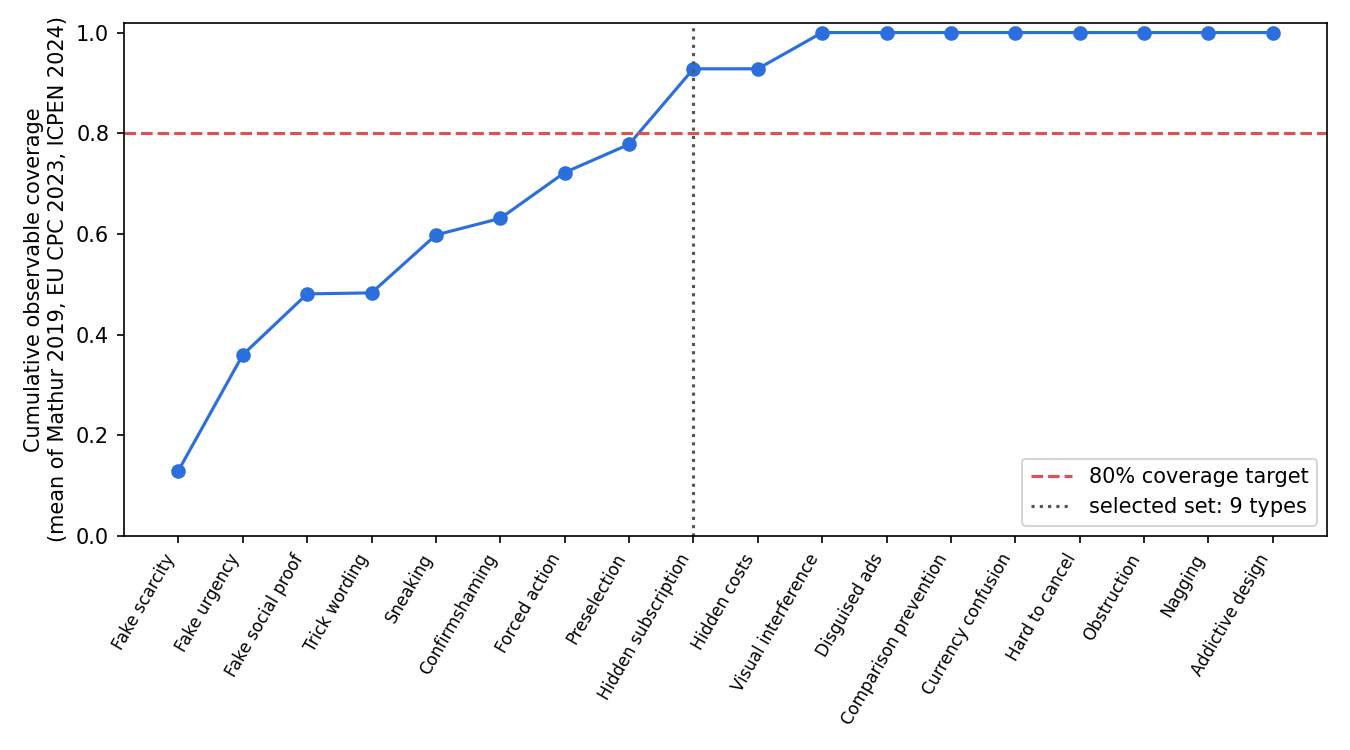
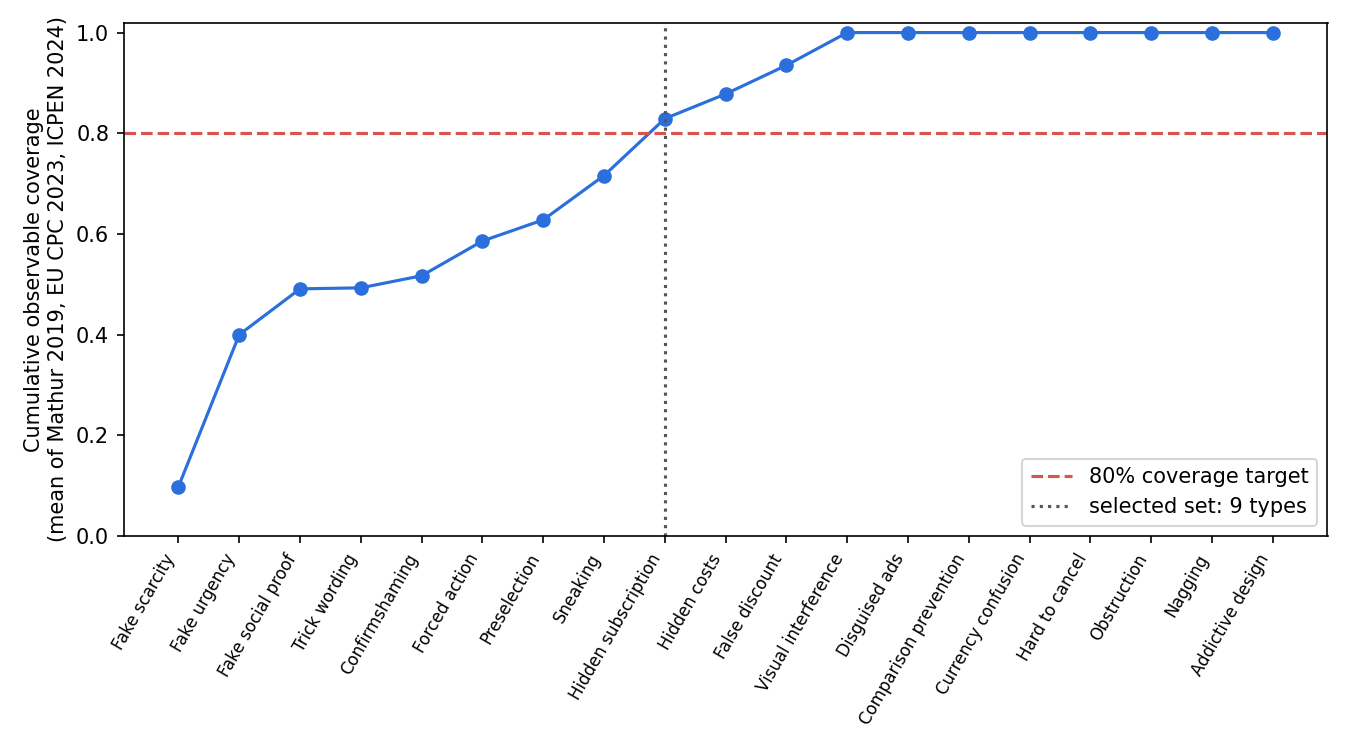
Taxonomy: add False discount and the team's user study as evidence
- Add False discount (inflated reference price / fake M.R.P.) as a 19th
  candidate: FTC "False Discount Claims", and the highest Pattern
  Vulnerability Index (25.0) in Kulkarni et al.
- Add Kulkarni et al. (351 detections on Indian sites, 40-participant
  study) as a fourth prevalence source.
- Document older names: roach motel = Hard to cancel, forced
  continuity = Hidden subscription, add-on creep = Sneaking.

Result: 10 core types (False discount joins at 50% of simulations);
the robust core (scarcity, urgency, social proof) is unchanged.

diff --git a/research/taxonomy/README.md b/research/taxonomy/README.md
@@ -1,6 +1,6 @@
 # Which dark patterns should the detector target?
 
-This folder holds an evidence-based, reproducible answer. It ranks the 18 dark-pattern types from deceptive.design using published prevalence data, regulatory recognition, and whether a single-page scanner can observe each one. A sensitivity analysis checks that the result doesn't depend on arbitrary choices.
+This folder holds an evidence-based, reproducible answer. It ranks 19 dark-pattern types (the 18 from deceptive.design plus False discount) using published prevalence data, regulatory recognition, and whether a single-page scanner can observe each one. A sensitivity analysis checks that the result doesn't depend on arbitrary choices.
 
 Run it with `python score_taxonomy.py`. You need Python 3 with matplotlib. It writes `results/` and `figures/`.
 
@@ -8,12 +8,12 @@ Run it with `python score_taxonomy.py`. You need Python 3 with matplotlib. It wr
 
 | Tier | Types | Why |
 |---|---|---|
-| **Core (robust)** | Fake scarcity, Fake urgency, Fake social proof | Selected in at least 99% of 10,000 simulations |
-| **Core (weight-sensitive)** | Confirmshaming, Trick wording, Sneaking, Preselection, Hidden subscription, Forced action | Selected in the baseline and in 61–81% of simulations |
-| **Extended** | Hidden costs, Visual interference, Disguised ads, Comparison prevention, Currency confusion | Selected in 0–24% of simulations; detected on a best-effort basis |
-| **Out of scope** | Hard to cancel, Obstruction, Nagging, Addictive design | They need a multi-step flow or observation over time, which a single-page scanner can't see |
+| **Core (robust)** | Fake scarcity, Fake urgency, Fake social proof | Selected in at least 99.6% of 10,000 simulations |
+| **Core (weight-sensitive)** | Confirmshaming, Trick wording, Preselection, Hidden subscription, Forced action, Sneaking, False discount | Selected in 50–86% of simulations |
+| **Extended** | Hidden costs (45%, borderline), Visual interference, Disguised ads, Comparison prevention, Currency confusion | Selected in 0–45% of simulations; detected on a best-effort basis |
+| **Out of scope** | Hard to cancel (roach motel), Obstruction, Nagging, Addictive design | They need a multi-step flow or observation over time, which a single-page scanner can't see |
 
-Together, the 9 core types cover **93%** of the observable instances, averaged across the three prevalence sources. Across the simulations the selected set had 4–12 types (median 8), so 9 is a typical, not a lucky, outcome. For the full table see `results/ranking.csv`.
+The baseline selects 9 types, which cover **83%** of the observable instances averaged across the four prevalence sources. False discount joins the core tier because it's selected in 50% of simulations. Across the simulations the selected set had 5–12 types (median 9), so 9–10 core types is a typical, not a lucky, outcome. For the full table see `results/ranking.csv`.
 
 ![Priority ranking](figures/priority_ranking.png)
 ![Coverage curve](figures/coverage_curve.png)
@@ -22,17 +22,18 @@ Together, the 9 core types cover **93%** of the observable instances, averaged a
 ## Method
 
 ### 1. Candidate types
-The candidates are the 18 types on [deceptive.design/types](https://deceptive.design/types/), which is maintained by Harry Brignull and mapped to laws and enforcement actions. All other sources are mapped onto these names (see the `mapping_note` and `note` columns in `data/`).
+The candidates are the 18 types on [deceptive.design/types](https://deceptive.design/types/), which is maintained by Harry Brignull and mapped to laws and enforcement actions, plus **False discount** (inflated reference prices, such as a fake M.R.P.). False discount isn't a deceptive.design type, but the FTC lists it as "False Discount Claims", and it had the highest Pattern Vulnerability Index (25.0, with 71.4% of users unaware) in Kulkarni et al. All other sources are mapped onto these names (see the `mapping_note` and `note` columns in `data/`). Older names map like this: *roach motel* is Hard to cancel, *forced continuity* is Hidden subscription, *sneak into basket* and *add-on creep* are Sneaking, and *drip pricing* is Hidden costs.
 
 ### 2. Criteria
 
-**Prevalence (P).** This is how often each type is observed in the real world. There are three independent sources, from different years, regions and methods:
+**Prevalence (P).** This is how often each type is observed in the real world. There are four independent sources, from different years, regions and methods:
 
 | Source | What it measured | Sample |
 |---|---|---|
 | Mathur et al. 2019, *Dark Patterns at Scale* (CSCW) | Instances found by crawling shopping sites | 1,818 instances from ~11K sites ([dataset](https://github.com/aruneshmathur/dark-patterns), commit `f458f19`, counted from the raw CSV) |
 | EU CPC Network sweep, 2023 | Retail websites using each pattern | 399 online shops ([press release IP/23/418](https://ec.europa.eu/commission/presscorner/detail/en/ip_23_418)) |
 | ICPEN sweep, 2024 | Subscription traders using each pattern | 642 websites and apps ([public report](https://icpen.org/sites/default/files/2024-07/Public%20Report%20ICPEN%20Dark%20Patterns%20Sweep.pdf)) |
+| Kulkarni et al., *Unmasking Dark Patterns* (ICTIS 2026) | Detections in a 40-participant user study on Indian sites (Flipkart, Myntra, Amazon.in and others) | 351 detections; only the categories the paper reports with counts are used |
 
 The sources use different scales, so each one is normalised to 0–1 separately. The scores are then averaged over the sources that report the type. A type no source reports gets P = 0.
 
@@ -65,7 +66,7 @@ Score = D × (w_P · P + w_R · R)        baseline w_P = w_R = 0.5
 D multiplies rather than adds: a type the scanner can't observe isn't a target, however common or regulated it is.
 
 ### 4. Choosing how many types (the cut-off)
-Types are added in score order until they cover **at least 80% of observable instances**, averaged across the three sources. Each instance is weighted by its type's detectability, so unobservable patterns don't drive the cut-off. Averaging across sources keeps the set from overfitting to shopping sites: Mathur alone would select only scarcity, urgency and social proof.
+Types are added in score order until they cover **at least 80% of observable instances**, averaged across the four sources. Each instance is weighted by its type's detectability, so unobservable patterns don't drive the cut-off. Averaging across sources keeps the set from overfitting to shopping sites: Mathur alone would select only scarcity, urgency and social proof.
 
 ### 5. Sensitivity analysis
 There are 10,000 Monte Carlo runs (seed 42). Each run randomly varies:
@@ -79,12 +80,13 @@ A type is **robust** if it's selected in at least 90% of runs.
 ## Findings worth noting
 - **The detector can find the presence of urgency, scarcity and social proof, but not whether they are fake.** In Mathur's data, only 157 of 393 countdown timers and 17 of 632 low-stock messages were *verifiably* false. The extension should say "pressure tactic detected", not "this is fake", unless it has proof (for example, a timer that resets).
 - **Visual interference is highly prevalent but scores low only because of detectability (0.25).** It's the second most common type in both regulatory sweeps. If the extension starts reading computed styles (contrast, size, prominence), its D rises and it would join the core set. This is the most valuable detection upgrade.
-- **Hard to cancel is the most regulated type that's out of scope** (46 laws, 23 enforcements). A future multi-step "cancellation flow" mode would address it.
+- **Hard to cancel (roach motel) is the most regulated type that's out of scope** (46 laws, 23 enforcements). The extension still recognises it when cancellation obstacles are visible on the scanned page, but detection isn't claimed to be reliable. A future multi-step "cancellation flow" mode would address it.
+- **False discount's regulation score (0.11) is understated.** deceptive.design doesn't track it as a type, so it gets 0 laws there, although EU price-indication rules on prior-price claims regulate it directly. A better source of law counts for it would raise its score.
 
 ## Limitations
 - The sources have different denominators: instances (Mathur), sites (EU) and traders within sub-populations (ICPEN). That's why each source is normalised separately rather than pooled.
-- The ICPEN sweep covers subscription services only, and the EU sweep checked only three categories. Absence from a source is treated as "not measured", not "not prevalent".
+- The ICPEN sweep covers subscription services only, the EU sweep checked only three categories, and Kulkarni et al. used a convenience sample of students and LLM-assigned labels. Absence from a source is treated as "not measured", not "not prevalent".
 - The EU Commission's 2022 behavioural study (97% of popular sites and apps had at least one dark pattern) ranks hidden information, false hierarchy, preselection, nagging, difficult cancellation and forced registration as most common. Its per-type table wasn't machine-readable, so it isn't in the score. Adding it is a good next step.
 - The EU Digital Services Act, Article 25, should be added as a fourth framework once its text has been checked against EUR-Lex by hand.
 - The detectability levels are the project team's judgement. The sensitivity analysis shows the core set holds when every level shifts by ±0.25.
-- The pattern vulnerability index (PVI) from the team's paper could be added as a harm criterion: `Score = D × (w_P P + w_R R + w_H PVI)`.
+- The Pattern Vulnerability Index (PVI) from Kulkarni et al. could be added as a harm criterion, `Score = D × (w_P P + w_R R + w_H PVI)`, once PVI values exist for all types. The paper reports them only for Discount anchoring (25.0), Urgency (19.0) and Costs (15.0).
